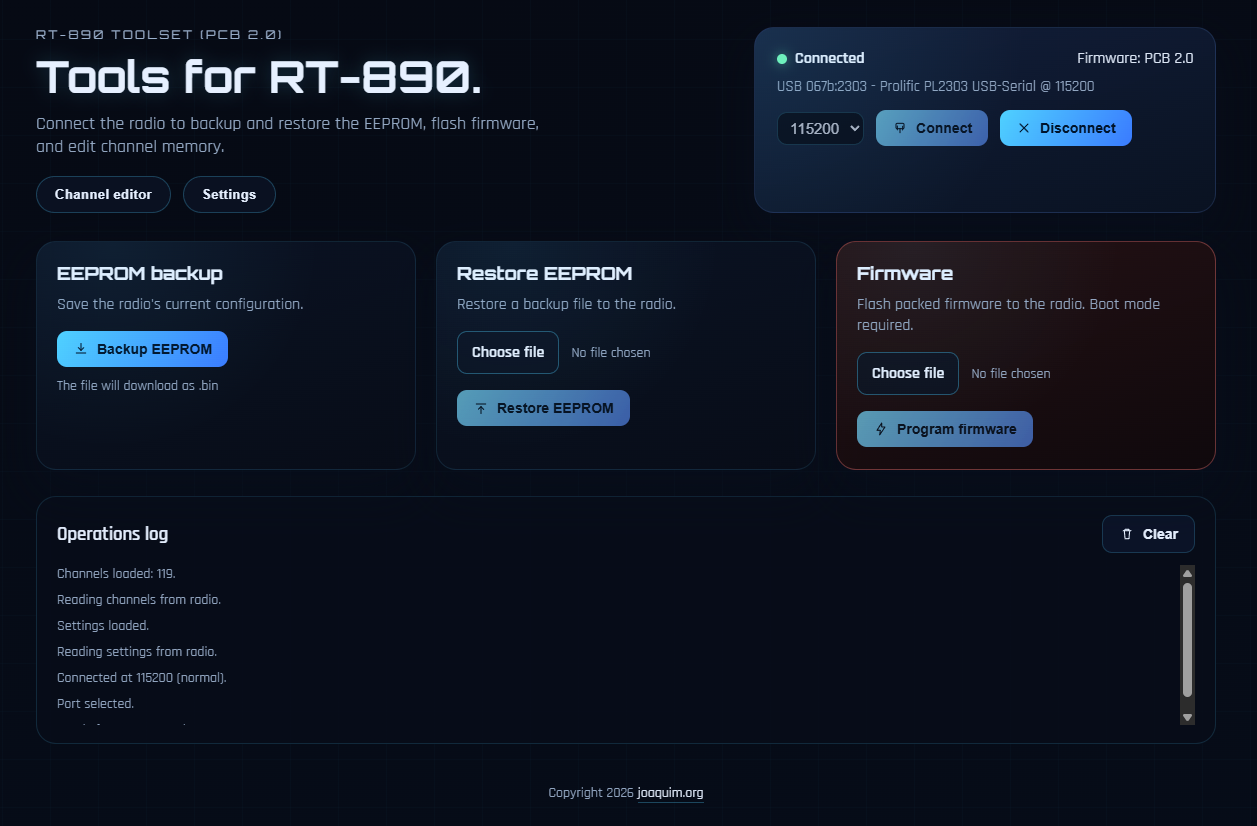
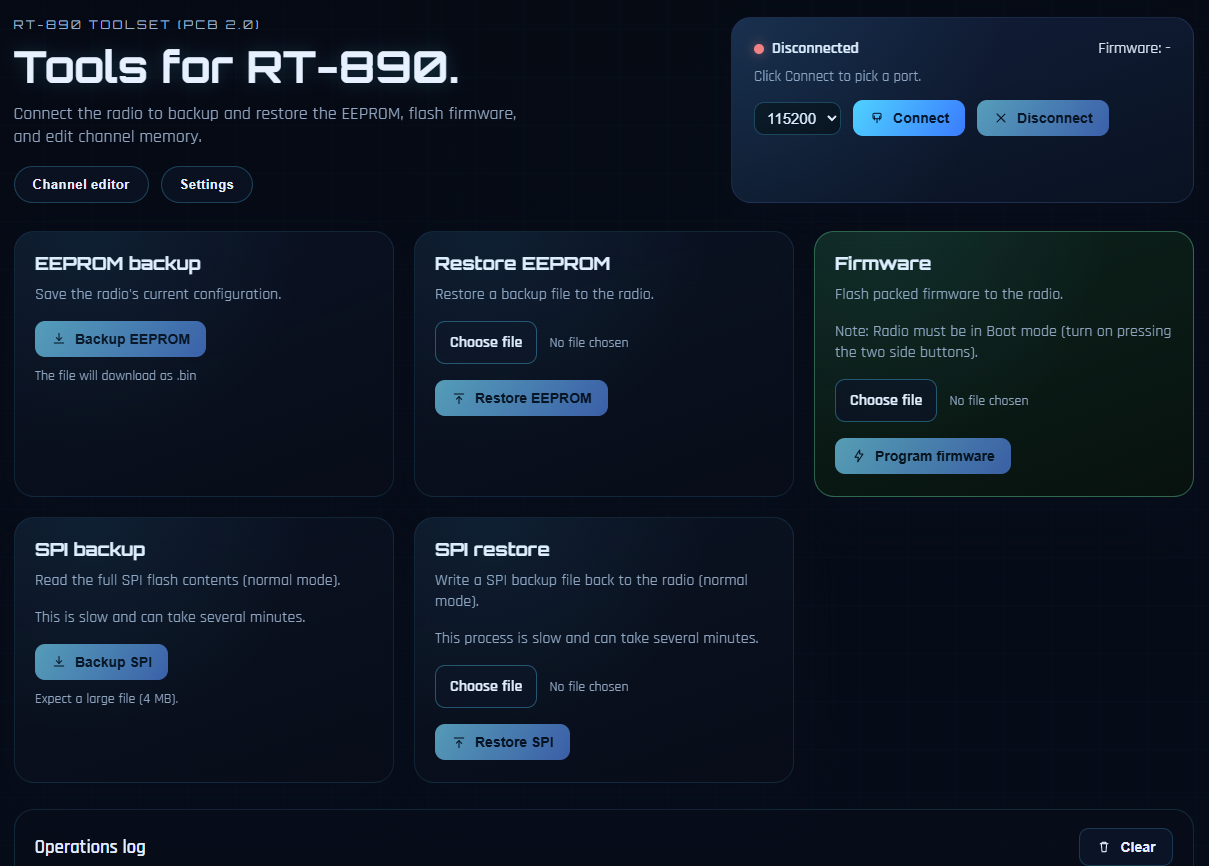
Add SPI backup and restore functionality; enhance firmware flashing process and UI

diff --git a/src/App.vue b/src/App.vue
@@ -84,9 +84,10 @@
           </button>
         </div>
 
-        <div class="card card-accent">
+        <div class="card card-success">
           <h3>Firmware</h3>
-          <p>Flash packed firmware to the radio. Boot mode required.</p>
+          <p>Flash packed firmware to the radio.</p>
+          <p>Note: Radio must be in Boot mode (turn on pressing the two side buttons).</p>
           <div class="file-picker">
             <label class="file-label" for="firmware-file">Choose file</label>
             <input id="firmware-file" type="file" @change="onFirmwareFile" />
@@ -97,6 +98,40 @@
               <path d="M13 3L6 14h5l-1 7 8-12h-5z" fill="none" stroke="currentColor" stroke-width="1.6" stroke-linejoin="round"/>
             </svg>
             Program firmware
+          </button>
+        </div>
+
+        <div class="card">
+          <h3>SPI backup</h3>
+          <p>Read the full SPI flash contents (normal mode).</p>
+          <p>This is slow and can take several minutes.</p>
+          <button class="button primary" @click="startSpiBackup" :disabled="!isConnected">
+            <svg class="btn-icon" viewBox="0 0 24 24" aria-hidden="true">
+              <path d="M12 4v10" fill="none" stroke="currentColor" stroke-width="1.6" stroke-linecap="round"/>
+              <path d="M8 10l4 4 4-4" fill="none" stroke="currentColor" stroke-width="1.6" stroke-linecap="round" stroke-linejoin="round"/>
+              <path d="M5 18h14" fill="none" stroke="currentColor" stroke-width="1.6" stroke-linecap="round"/>
+            </svg>
+            Backup SPI
+          </button>
+          <div class="hint">Expect a large file (4 MB).</div>
+        </div>
+
+        <div class="card">
+          <h3>SPI restore</h3>
+          <p>Write a SPI backup file back to the radio (normal mode).</p>
+          <p>This process is slow and can take several minutes.</p>
+          <div class="file-picker">
+            <label class="file-label" for="spi-restore-file">Choose file</label>
+            <input id="spi-restore-file" type="file" @change="onSpiRestoreFile" :disabled="!isConnected" />
+            <span class="file-name">{{ spiRestoreFileName || 'No file chosen' }}</span>
+          </div>
+          <button class="button primary" @click="startSpiRestore" :disabled="!spiRestoreFileName || !isConnected">
+            <svg class="btn-icon" viewBox="0 0 24 24" aria-hidden="true">
+              <path d="M12 20V10" fill="none" stroke="currentColor" stroke-width="1.6" stroke-linecap="round"/>
+              <path d="M8 14l4-4 4 4" fill="none" stroke="currentColor" stroke-width="1.6" stroke-linecap="round" stroke-linejoin="round"/>
+              <path d="M5 6h14" fill="none" stroke="currentColor" stroke-width="1.6" stroke-linecap="round"/>
+            </svg>
+            Restore SPI
           </button>
         </div>
 
@@ -114,6 +149,13 @@
         </div>
         <div class="log-list">
           <div v-for="entry in logs" :key="entry.id">{{ entry.message }}</div>
+        </div>
+      </section>
+
+      <section v-if="activeView === 'home'" class="grid">
+        <div class="card card-accent">
+          <h3>Warning</h3>
+          <p>Use these tools at your own risk. I am not responsible for any damage, loss, or failures caused to radios.</p>
         </div>
       </section>
 
@@ -165,6 +207,8 @@ const isConnected = ref(false);
 const firmwareVersion = ref('');
 const restoreFileName = ref('');
 const restoreFile = ref(null);
+const spiRestoreFileName = ref('');
+const spiRestoreFile = ref(null);
 const firmwareFileName = ref('');
 const firmwareFile = ref(null);
 
@@ -173,6 +217,7 @@ const baudRates = ref([115200, 57600, 38400]);
 const selectedPort = ref(null);
 const selectedBaud = ref(115200);
 const serial = ref(null);
+const FLASH_BAUD = 115200;
 const activeView = ref('home');
 const heroTitle = computed(() => {
   if (activeView.value === 'channels') {
@@ -268,9 +313,7 @@ const connect = async () => {
   }
 };
 
-const disconnect = async () => {
-  isConnected.value = false;
-  firmwareVersion.value = '';
+const closeActiveSession = async (message) => {
   if (serial.value) {
     try {
       await serial.value.close();
@@ -278,6 +321,16 @@ const disconnect = async () => {
       // Ignore close errors.
     }
   }
+  serial.value = null;
+  isConnected.value = false;
+  firmwareVersion.value = '';
+  if (message) {
+    addLog(message);
+  }
+};
+
+const disconnect = async () => {
+  await closeActiveSession();
   selectedPort.value = null;
   addLog('Disconnected from radio.');
 };
@@ -299,6 +352,71 @@ const startBackup = async () => {
     addLog('EEPROM backup completed.');
   } catch (error) {
     addLog(`EEPROM backup failed: ${error.message}`);
+  } finally {
+    progressVisible.value = false;
+  }
+};
+
+const startSpiBackup = async () => {
+  if (!serial.value) {
+    addLog('Connect to the radio before SPI backup.');
+    return;
+  }
+  addLog('SPI backup started.');
+  progressLabel.value = 'Reading SPI flash';
+  progressValue.value = 0;
+  progressVisible.value = true;
+  try {
+    const isBoot = await serial.value.isBootloaderMode();
+    if (isBoot) {
+      addLog('Radio is in bootloader mode. Use normal mode for SPI backup.');
+      return;
+    }
+    const data = await serial.value.backupSpiFlash((percent) => {
+      progressValue.value = percent;
+    });
+    downloadBlob(data, 'rt890_spi_backup.bin');
+    addLog('SPI backup completed.');
+  } catch (error) {
+    addLog(`SPI backup failed: ${error.message}`);
+  } finally {
+    progressVisible.value = false;
+  }
+};
+
+const onSpiRestoreFile = (event) => {
+  const file = event.target.files[0];
+  spiRestoreFileName.value = file ? file.name : '';
+  spiRestoreFile.value = file || null;
+};
+
+const startSpiRestore = async () => {
+  if (!spiRestoreFile.value) {
+    addLog('Select a SPI backup file before restore.');
+    return;
+  }
+  if (!serial.value) {
+    addLog('Connect to the radio before SPI restore.');
+    return;
+  }
+  addLog(`SPI restore started from ${spiRestoreFileName.value}.`);
+  progressLabel.value = 'Writing SPI flash';
+  progressValue.value = 0;
+  progressVisible.value = true;
+  try {
+    const isBoot = await serial.value.isBootloaderMode();
+    if (isBoot) {
+      addLog('Radio is in bootloader mode. Use normal mode for SPI restore.');
+      return;
+    }
+    const buffer = await spiRestoreFile.value.arrayBuffer();
+    const data = new Uint8Array(buffer);
+    await serial.value.restoreSpiFlash(data, (percent) => {
+      progressValue.value = percent;
+    });
+    addLog('SPI restore completed.');
+  } catch (error) {
+    addLog(`SPI restore failed: ${error.message}`);
   } finally {
     progressVisible.value = false;
   }
@@ -347,30 +465,47 @@ const startFlash = async () => {
     addLog('Select a firmware file before flashing.');
     return;
   }
-  if (!serial.value) {
-    addLog('Connect to the radio before flashing.');
+  if (serial.value) {
+    await closeActiveSession('Disconnected active session for firmware flash.');
+  }
+  let port = selectedPort.value;
+  if (!port) {
+    port = await pickPort();
+  }
+  if (!port) {
+    addLog('No serial port selected.');
     return;
   }
   addLog('Firmware flash started.');
   progressLabel.value = 'Flashing firmware';
   progressValue.value = 0;
   progressVisible.value = true;
+  let flashSerial = null;
   try {
+    flashSerial = new RT890Serial(port);
+    await flashSerial.open(FLASH_BAUD);
     const buffer = await firmwareFile.value.arrayBuffer();
     const firmware = new Uint8Array(buffer);
-    const isBoot = await serial.value.isBootloaderMode();
+    const isBoot = await flashSerial.isBootloaderMode();
     if (!isBoot) {
       addLog('Radio is not in bootloader mode.');
       return;
     }
-    await serial.value.eraseFlash();
-    await serial.value.flashFirmware(firmware, (percent) => {
+    await flashSerial.eraseFlash();
+    await flashSerial.flashFirmware(firmware, (percent) => {
       progressValue.value = percent;
     });
     addLog('Firmware flash completed.');
   } catch (error) {
     addLog(`Firmware flash failed: ${error.message}`);
   } finally {
+    if (flashSerial) {
+      try {
+        await flashSerial.close();
+      } catch {
+        // Ignore close errors.
+      }
+    }
     progressVisible.value = false;
   }
 };

diff --git a/src/services/rt890_serial.js b/src/services/rt890_serial.js
@@ -54,6 +54,18 @@ const verifyChecksum = (bytes) => {
   return sum === bytes[bytes.length - 1];
 };
 
+const SPI_RANGES = [
+  { cmd: 0x40, offset: 0x000000, size: 0x2d0000 },
+  { cmd: 0x41, offset: 0x2d0000, size: 0x028000 },
+  { cmd: 0x42, offset: 0x2f8000, size: 0x022000 },
+  { cmd: 0x43, offset: 0x31a000, size: 0x002000 },
+  { cmd: 0x47, offset: 0x3b4a00, size: 0x00a000 },
+  { cmd: 0x48, offset: 0x3bf000, size: 0x001000 },
+  { cmd: 0x49, offset: 0x3c1000, size: 0x00a000 },
+  { cmd: 0x4b, offset: 0x3d8000, size: 0x00a000 },
+  { cmd: 0x4c, offset: 0x31c000, size: 0x099000 }
+];
+
 export class RT890Serial {
   constructor(port, timeoutMs = DEFAULT_TIMEOUT_MS) {
     this.port = port;
@@ -146,6 +158,36 @@ export class RT890Serial {
       throw new Error(`Timeout while reading ${size} bytes`);
     }
     return output;
+  }
+
+  async drainInput(maxCycles = 8) {
+    this.readBuffer = new Uint8Array(0);
+    if (!this.port || !this.port.readable) {
+      return;
+    }
+    const reader = this.port.readable.getReader();
+    try {
+      for (let i = 0; i < maxCycles; i += 1) {
+        let timeoutId;
+        try {
+          const readPromise = reader.read();
+          const timeoutPromise = new Promise((resolve) => {
+            timeoutId = setTimeout(() => resolve({ value: null, done: true }), 30);
+          });
+          const { value, done } = await Promise.race([readPromise, timeoutPromise]);
+          clearTimeout(timeoutId);
+          if (done || !value || value.length === 0) {
+            break;
+          }
+        } finally {
+          clearTimeout(timeoutId);
+        }
+      }
+    } catch {
+      // Ignore drain errors.
+    } finally {
+      reader.releaseLock();
+    }
   }
 
   async enterProgrammingMode() {
@@ -283,19 +325,89 @@ export class RT890Serial {
     checksum(cmd);
     await this.write(cmd);
 
-    const block = await this.readExact(128 + 4);
-    if (block[0] === 0xff) {
+    const header = await this.readExact(1);
+    if (header[0] === 0xff) {
       return null;
     }
+    const remainder = await this.readExact(128 + 3);
+    const block = new Uint8Array(128 + 4);
+    block[0] = header[0];
+    block.set(remainder, 1);
     if (!verifyChecksum(block)) {
       throw new Error('Flash read checksum failed.');
     }
     return block.slice(3, 3 + 128);
   }
 
+  async writeSpiFlash(offset, data) {
+    let range = null;
+    for (const entry of SPI_RANGES) {
+      const rangeEnd = entry.offset + entry.size;
+      if (offset >= entry.offset && offset < rangeEnd) {
+        range = entry;
+        break;
+      }
+    }
+    if (!range) {
+      return true;
+    }
+    const rangeEnd = range.offset + range.size;
+    const blockIndex = Math.floor((offset - range.offset) / 128);
+    const remaining = Math.max(0, Math.min(128, rangeEnd - offset, data.length - offset));
+
+    const cmd = new Uint8Array(128 + 4);
+    cmd[0] = range.cmd;
+    cmd[1] = (blockIndex >> 8) & 0xff;
+    cmd[2] = blockIndex & 0xff;
+    if (remaining > 0) {
+      cmd.set(data.slice(offset, offset + remaining), 3);
+    }
+    checksum(cmd);
+    await this.write(cmd);
+    const ack = await this.readExact(1);
+    if (ack[0] !== 0x06) {
+      throw new Error(`Failed to write SPI flash at 0x${offset.toString(16)}`);
+    }
+    return true;
+  }
+
   async isBootloaderMode() {
     const data = await this.readFlash(0x0000);
+    if (data === null) {
+      await this.drainInput();
+    }
     return data === null;
+  }
+
+  async backupSpiFlash(onProgress) {
+    const blocks = 0x8000;
+    const blockSize = 128;
+    const totalSize = blocks * blockSize;
+    const output = new Uint8Array(totalSize);
+    for (let block = 0; block < blocks; block += 1) {
+      const data = await this.readFlash(block);
+      if (!data) {
+        throw new Error('Failed to read SPI flash.');
+      }
+      output.set(data, block * blockSize);
+      if (onProgress) {
+        const percent = Math.round(((block + 1) / blocks) * 100);
+        onProgress(percent);
+      }
+    }
+    return output;
+  }
+
+  async restoreSpiFlash(data, onProgress) {
+    const totalBlocks = Math.ceil(data.length / 128);
+    for (let block = 0; block < totalBlocks; block += 1) {
+      const offset = block * 128;
+      await this.writeSpiFlash(offset, data);
+      if (onProgress) {
+        const percent = Math.round(((block + 1) / totalBlocks) * 100);
+        onProgress(percent);
+      }
+    }
   }
 
   async flashFirmware(firmware, onProgress) {

diff --git a/src/assets/styles.css b/src/assets/styles.css
@@ -282,6 +282,11 @@ body {
   border-color: rgba(255, 123, 123, 0.35);
 }
 
+.card-success {
+  background: linear-gradient(160deg, rgba(14, 36, 28, 0.92), rgba(8, 18, 14, 0.94));
+  border-color: rgba(113, 243, 183, 0.35);
+}
+
 .card:nth-child(1) { animation-delay: 0.05s; }
 .card:nth-child(2) { animation-delay: 0.1s; }
 .card:nth-child(3) { animation-delay: 0.15s; }
